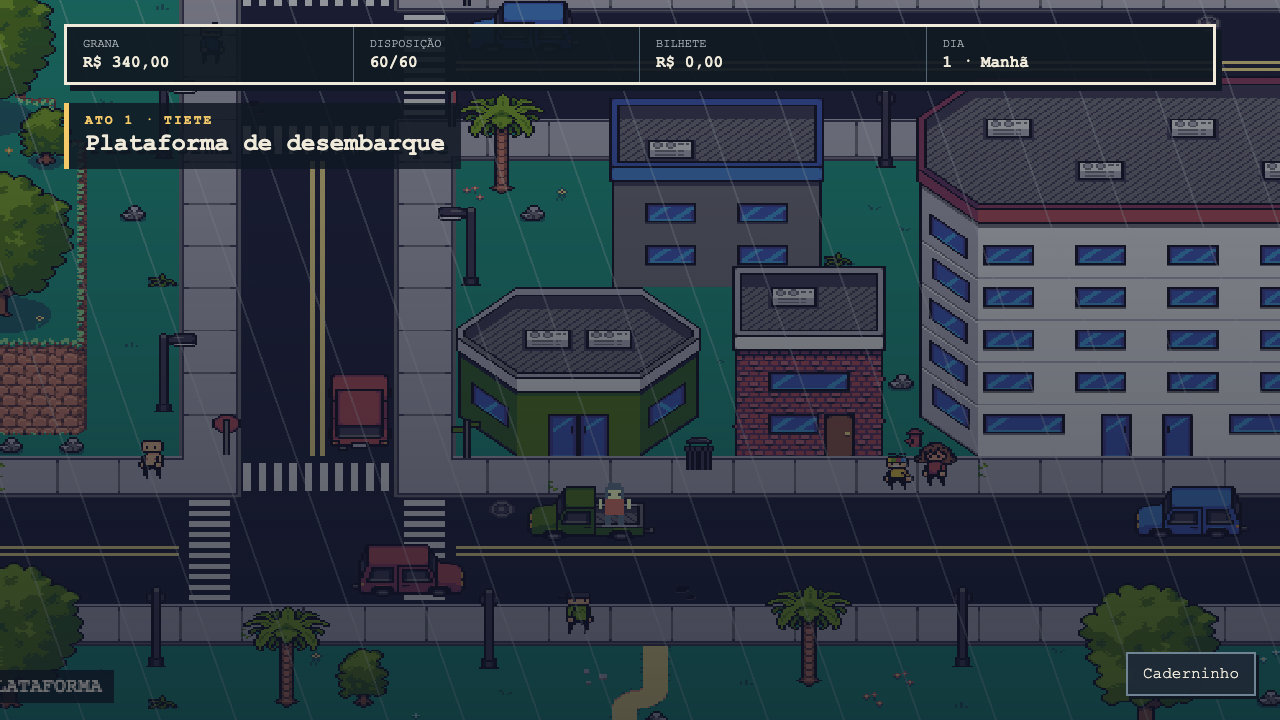
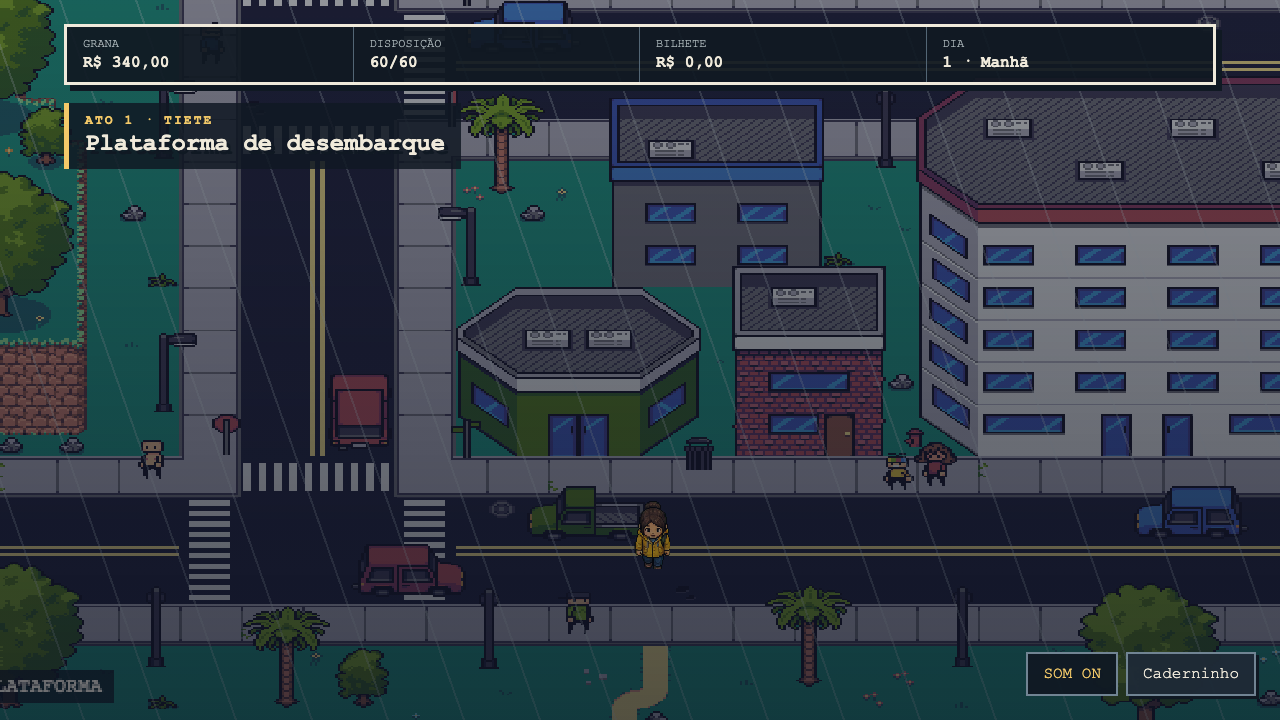
feat: replace characters with detailed animated sprites

Changed region(s): [[0.7812, 0.8861, 0.875, 0.9778], [0.4688, 0.6722, 0.5312, 0.7944]]

diff --git a/src/engine/backdrop.ts b/src/engine/backdrop.ts
@@ -62,6 +62,11 @@ export class WorldScene extends Phaser.Scene {
   preload(): void {
     this.load.atlas('garoa', 'atlas.png', 'atlas.json')
     this.load.image('fisherg-city', 'assets/fisherg-city/sMockup.png')
+    this.load.spritesheet('garoa-people-v2', 'assets/garoa-characters-v2/characters-sheet.png', {
+      frameWidth: 128,
+      frameHeight: 170,
+      endFrame: 71,
+    })
   }
   create(): void {
     bridge.scene = this
@@ -93,9 +98,9 @@ export class WorldScene extends Phaser.Scene {
     this.createExits(bridge.presentation.exits)
     this.createActors(bridge.presentation.actors)
     this.player = this.physics.add
-      .sprite(MAP_WIDTH * TILE * 0.5, MAP_HEIGHT * TILE * 0.8, 'garoa', 'protagonista_down_0')
-      .setScale(1.6)
-    this.player.setSize(12, 10).setOffset(10, 20).setCollideWorldBounds(true).setDepth(10)
+      .sprite(MAP_WIDTH * TILE * 0.5, MAP_HEIGHT * TILE * 0.8, 'garoa-people-v2', 0)
+      .setScale(0.24)
+    this.player.setSize(42, 34).setOffset(43, 126).setCollideWorldBounds(true).setDepth(10)
     this.physics.add.collider(this.player, this.obstacles)
     this.physics.add.collider(this.player, this.actors)
     this.physics.add.overlap(this.player, this.exits, (_player, zone) => this.enterExit(zone))
@@ -148,8 +153,13 @@ export class WorldScene extends Phaser.Scene {
     actors.forEach((actor, index) => {
       const x = (index % 2 === 0 ? 18 : 6) * TILE
       const y = 12.1 * TILE
-      const frame = actor.kind === 'npc' ? npcFrame(actor.id) : 'banca_jornal'
-      const sprite = this.physics.add.staticSprite(x, y, 'garoa', frame).setScale(1.5).setDepth(8)
+      const sprite =
+        actor.kind === 'npc'
+          ? this.physics.add
+              .staticSprite(x, y, 'garoa-people-v2', npcFrame(actor.id))
+              .setScale(0.24)
+              .setDepth(8)
+          : this.physics.add.staticSprite(x, y, 'garoa', 'banca_jornal').setScale(1.5).setDepth(8)
       sprite.setData('actionId', actor.id)
       sprite.setData('label', actor.label)
       sprite.refreshBody()
@@ -209,7 +219,7 @@ export class WorldScene extends Phaser.Scene {
           ? 'up'
           : 'down'
     if (velocity.lengthSq() > 0)
-      this.player.setFrame(`protagonista_${direction}_${Math.floor(time / 180) % 2}`)
+      this.player.setFrame(directionFrame(direction, Math.floor(time / 160) % 3))
     this.nearby = this.closestActor()
     bridge.promptCallback(this.nearby?.label)
     if (Phaser.Input.Keyboard.JustDown(this.wasd.interact) && this.nearby)
@@ -374,18 +384,21 @@ function drawLandmark(scene: Phaser.Scene, district: string): void {
   if (district === 'zona_leste') scene.add.rectangle(384, 420, 768, 120, 0x3e6970, 0.42).setDepth(2)
   if (district === 'minhocao') scene.add.rectangle(384, 116, 768, 34, 0x485270, 0.88).setDepth(3)
 }
-function npcFrame(actionId: string): string {
+function directionFrame(direction: 'down' | 'left' | 'right' | 'up', step: number): number {
+  return { down: 0, left: 3, right: 6, up: 9 }[direction] + step
+}
+function npcFrame(actionId: string): number {
   const id = actionId.replace('talk:', '')
-  const known: Record<string, string> = {
-    ajudante: 'ajudante_down_0',
-    seu_jorge: 'seu_jorge_down_0',
-    dona_cida: 'dona_cida_down_0',
-    yumi: 'yumi_down_0',
-    tico: 'tico_down_0',
-    renan: 'ajudante_down_0',
-    val: 'protagonista_down_0',
+  const rows: Record<string, number> = {
+    ajudante: 4,
+    seu_jorge: 1,
+    dona_cida: 2,
+    yumi: 3,
+    tico: 4,
+    renan: 5,
+    val: 0,
   }
-  return known[id] ?? 'tico_down_0'
+  return (rows[id] ?? 4) * 12
 }
 
 export function mountBackdrop(parent: string): WorldController {

diff --git a/docs/ART_ASSETS.md b/docs/ART_ASSETS.md
@@ -14,3 +14,14 @@ garoa, paleta fria, sinalização, NPCs e objetos paulistanos autorais.
 
 O pack de dungeon da CraftPix foi usado apenas como referência de densidade e
 composição. Nenhum pixel desse pack foi incluído no repositório.
+
+## Personagens GAROA v2
+
+A folha em `public/assets/garoa-characters-v2/characters-sheet.png` foi gerada
+especificamente para o projeto com a ferramenta de geração de imagens da OpenAI e
+pós-processada para transparência e grade regular. A direção visual estudou a
+legibilidade e a organização de folhas de sprites top-down da CraftPix, sem copiar
+personagens ou arquivos do catálogo.
+
+Os seis desenhos representam Jaci, Seu Jorge, Dona Cida, Yumi, Tico e Renan em
+quatro direções e três quadros por direção.
